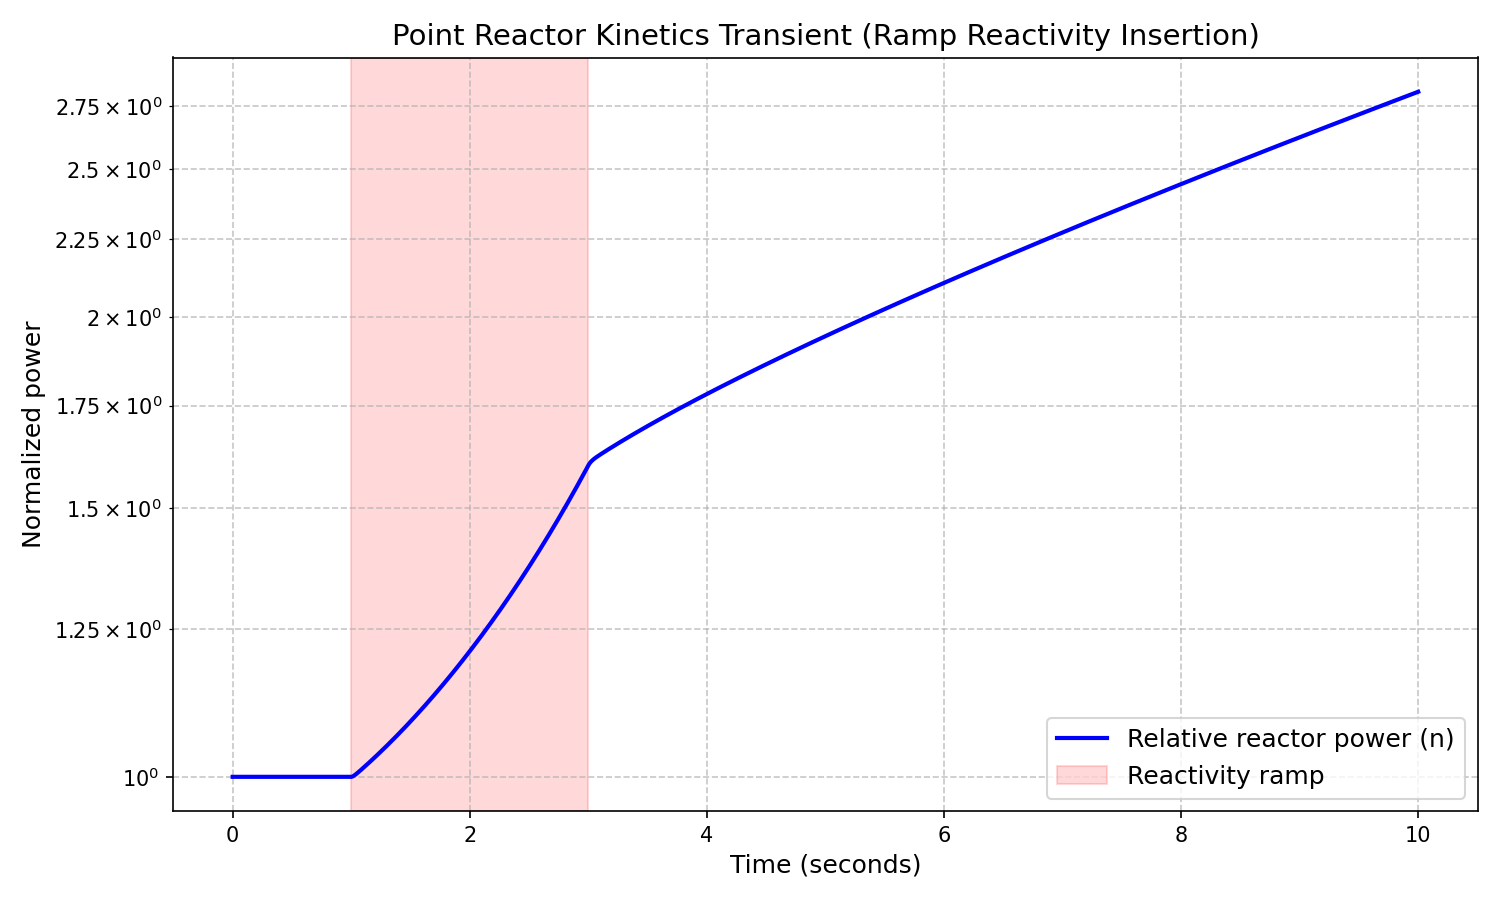
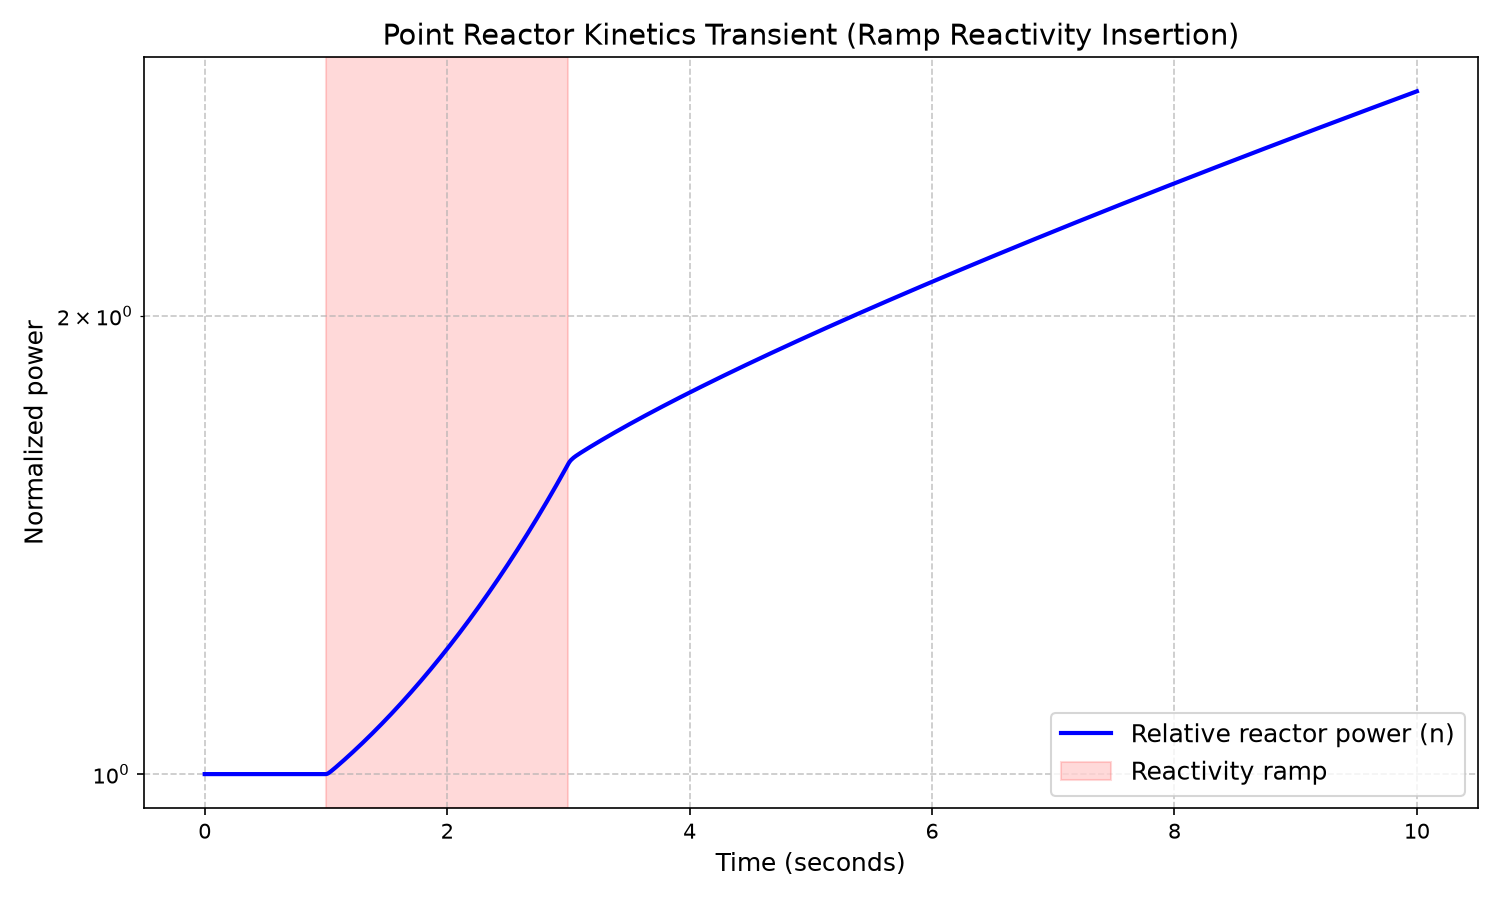
Tidy Day 1 comments and refresh transient plots

diff --git a/point_kinetics.py b/point_kinetics.py
@@ -20,8 +20,9 @@ beta = np.array(
 )  # The fraction of neutrons that are delayed in each group
 beta_total = beta.sum()  # The total delayed neutron fraction (~0.0065 for U-235)
 gen_time = 1e-4  # The prompt neutron generation time (Lambda, in seconds).
-# Lumped UO2-ish fuel: T rides along in y[7] but does not change rho (Doppler off).
-T0 = 900.0  # Initial fuel temperature (K), delayed-critical equilibrium with n0 = 1
+
+# Lumped UO2-ish fuel
+T0 = 900.0  # Initial fuel temperature (K)
 T_coolant = 580.0  # Coolant temperature (K)
 tau_fuel = 5.0  # Fuel-to-coolant heat-removal time constant (s)
 
@@ -55,7 +56,7 @@ def kinetics_odes(t, y, reactivity_fn=reactivity):
     
     n = y[0]  # The reactor power (neutron population, n).
     C = y[1:7]  # The concentrations of our delayed neutron precursors
-    T = y[7]  # Lumped fuel temperature (K); Newton cooling only — rho is still external.
+    T = y[7]  # Lumped fuel temperature (K); Newton cooling only
     rho = reactivity_fn(t)
     dydt = np.zeros_like(y)
     
@@ -66,7 +67,7 @@ def kinetics_odes(t, y, reactivity_fn=reactivity):
     for i in range(6):
         dydt[i + 1] = (beta[i] / gen_time) * n - lambda_decay[i] * C[i]
 
-    # Heat generation vs Newton cooling, built so (n, T) = (1, T0) is steady: dT/dt = 0.
+    # Heat generation vs Newton cooling (n, T) = (1, T0) is steady: dT/dt = 0.
     dydt[7] = ((T0 - T_coolant) * n - (T - T_coolant)) / tau_fuel
     return dydt
     
